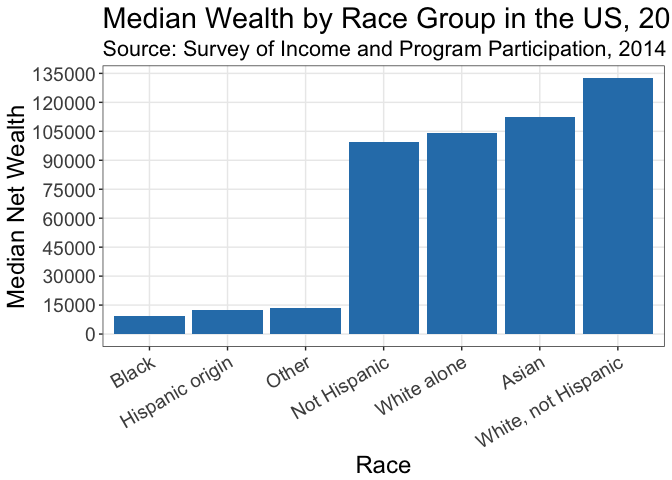
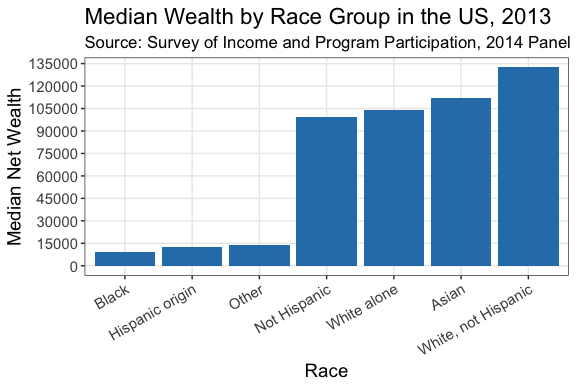
Correct cross-reference and fig dimensions.

diff --git a/_posts/2017-07-06-race-wealth.md b/_posts/2017-07-06-race-wealth.md
@@ -5,7 +5,7 @@ subtitle: Plotting data from the Survey of Income and Program Participation (201
 tags: [inequality, race, USA, wealth, survey data, tidyverse, readxl, forcats, ggplot2]
 ---
 
-I've been interested in race and inequality (or "group inequality") for some time (see the [Background](##Background) section. The recent publication of the 2013 [Survey of Income and Participation](https://www.census.gov/sipp/) presents a window into what wealth inequality looks like in the USA. What can we do with the survey data?
+I've been interested in race and inequality (or "group inequality") for some time (see the [Background](#background) section. The recent publication of the 2013 [Survey of Income and Participation](https://www.census.gov/sipp/) presents a window into what wealth inequality looks like in the USA. What can we do with the survey data?
 
 -   We can construct a bar chart showing net wealth by race
 -   We can construct a stacked bar chart showing different wealth levels and the composition of those wealth levels by race group
@@ -77,7 +77,7 @@ WIneq <-
   theme_bw() + #Remove default gray background
   scale_y_continuous(name = "Median Net Wealth", breaks = seq(0, 140000, 15000)) + 
   theme(axis.text.x = element_text(angle = 30, hjust = 1), #Change x-axis label orientation
-        text = element_text(size = 18), #Change other text size
+        text = element_text(size = 14), #Change other text size
         panel.grid.minor = element_blank()) + #Remove some gridlines for legibility
   labs(title = "Median Wealth by Race Group in the US, 2013", 
        subtitle = "Source: Survey of Income and Program Participation, 2014 Panel")
@@ -158,8 +158,8 @@ WIneqBand <-
   ylab("Percentage") + 
   xlab("Race") + 
   theme_bw() + 
-  theme(axis.text.x = element_text(angle = 35, hjust = 1), 
-        text = element_text(size = 18)) + 
+  theme(axis.text.x = element_text(angle = 25, hjust = 1), 
+        text = element_text(size = 14)) + 
   labs(title = "Wealth Composition by Race Group in the US, 2013", 
        subtitle = "Source: Survey of Income and Program Participation, 2014 Panel")
 WIneqBand
